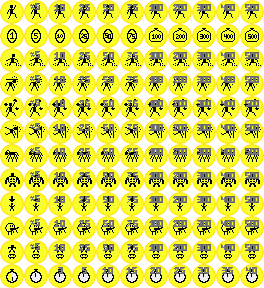
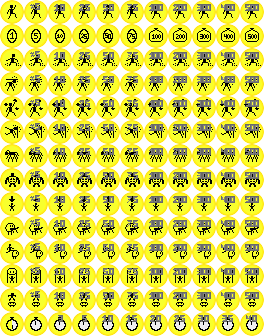
Add achievements for killing / getting killed by a jumper

diff --git a/src/main.js b/src/main.js
@@ -465,7 +465,7 @@ function calculateEnemies() {
 				calculateJumperMovement(e);
 			
 			if(player.yVel > 0 && overlap(player, e) && (player.y < e.y)) {
-				Achievements.add(ACHIEV_WALKER_KILL);
+				Achievements.add((e.type == 0) ? ACHIEV_WALKER_KILL : ACHIEV_JUMPER_KILL);
 				Sfx.play((e.type == 0) ? walkerDeathSfx : jumperDeathSfx);
 				e.dead = 0;
 			}
@@ -586,11 +586,13 @@ function checkPlayerDamage() {
 	
 	let count = enemies.length;
 	for(let idx = 0; idx < count; ++idx) {
-		if(enemies[idx].dead !== null) continue;
-		if(!overlap(player, enemies[idx])) continue;
+		let e = enemies[idx];
 		
-		if(player.health <= 1) Sfx.play((enemies[idx].type == 0) ? walkerAttackSfx : jumperAttackSfx);
-		Achievements.add(ACHIEV_WALKER_DIE);
+		if(e.dead !== null) continue;
+		if(!overlap(player, e)) continue;
+		
+		if(player.health <= 1) Sfx.play((e.type == 0) ? walkerAttackSfx : jumperAttackSfx);
+		Achievements.add((e.type == 0) ? ACHIEV_WALKER_DIE : ACHIEV_JUMPER_DIE);
 		return true;
 	}
 	

diff --git a/src/achievements.js b/src/achievements.js
@@ -26,7 +26,9 @@ const ACHIEV_ONE_UP      =  7;
 const ACHIEV_ONE_DOWN    =  8;
 const ACHIEV_WALKER_DIE  =  9;
 const ACHIEV_WALKER_KILL = 10;
-const ACHIEV_PLAYTIME    = 11;
+const ACHIEV_JUMPER_DIE  = 11;
+const ACHIEV_JUMPER_KILL = 12;
+const ACHIEV_PLAYTIME    = 13;
 
 const AchievementSteps = [1, 5, 10, 25, 50, 75, 100, 200, 300, 400, 500];
 
